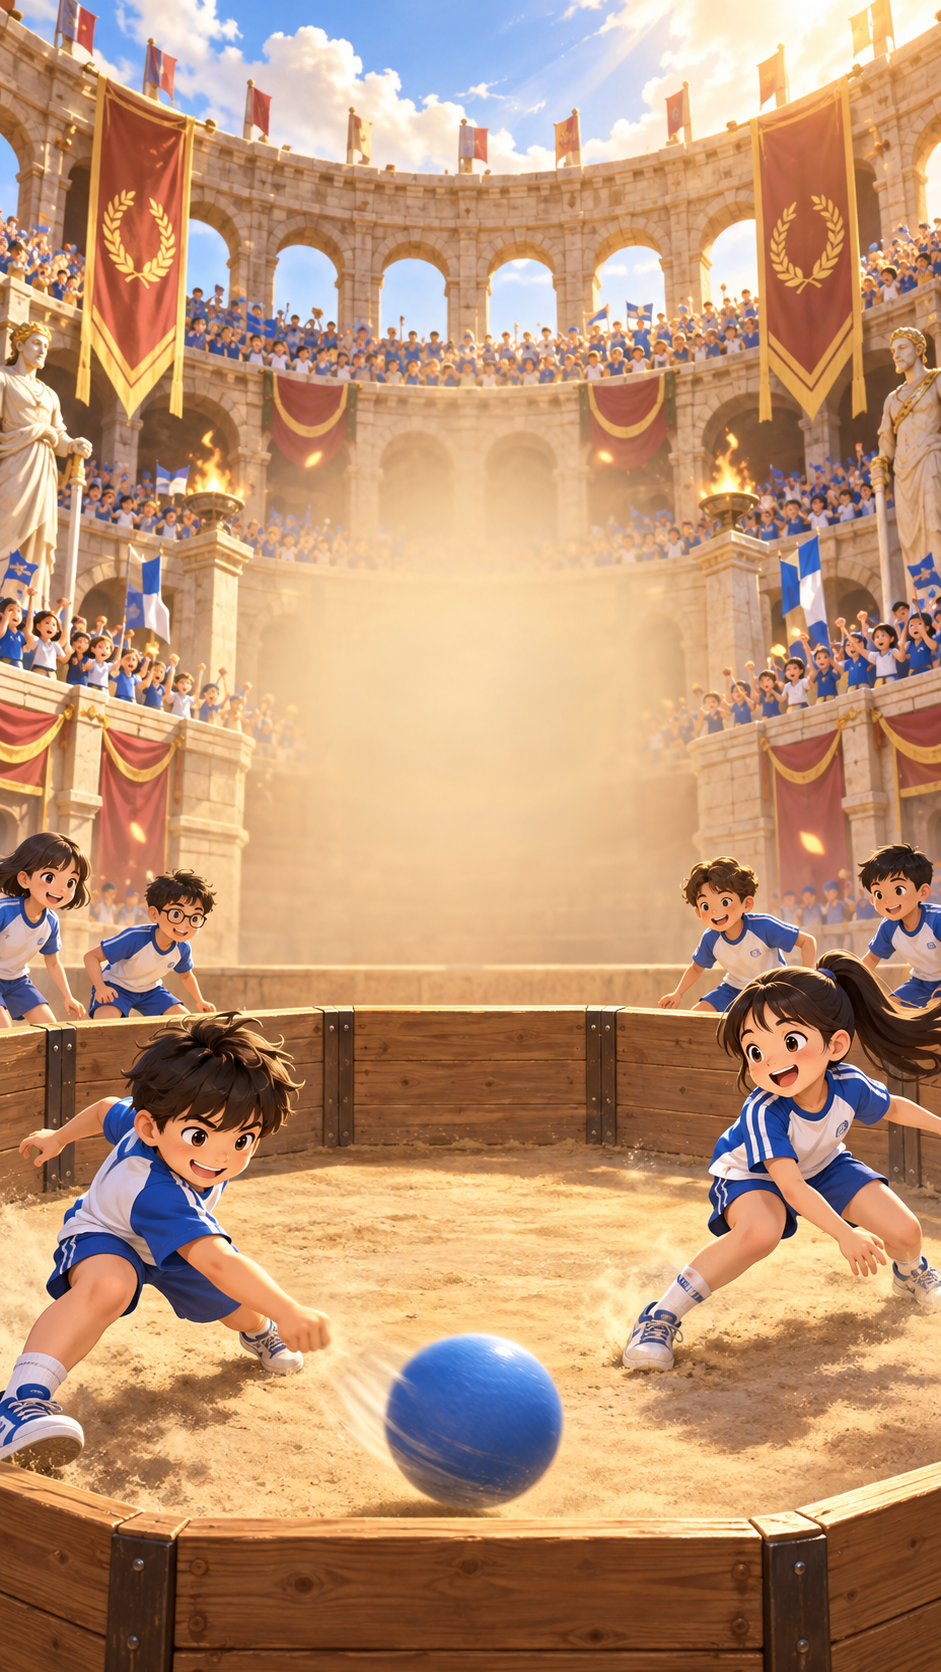
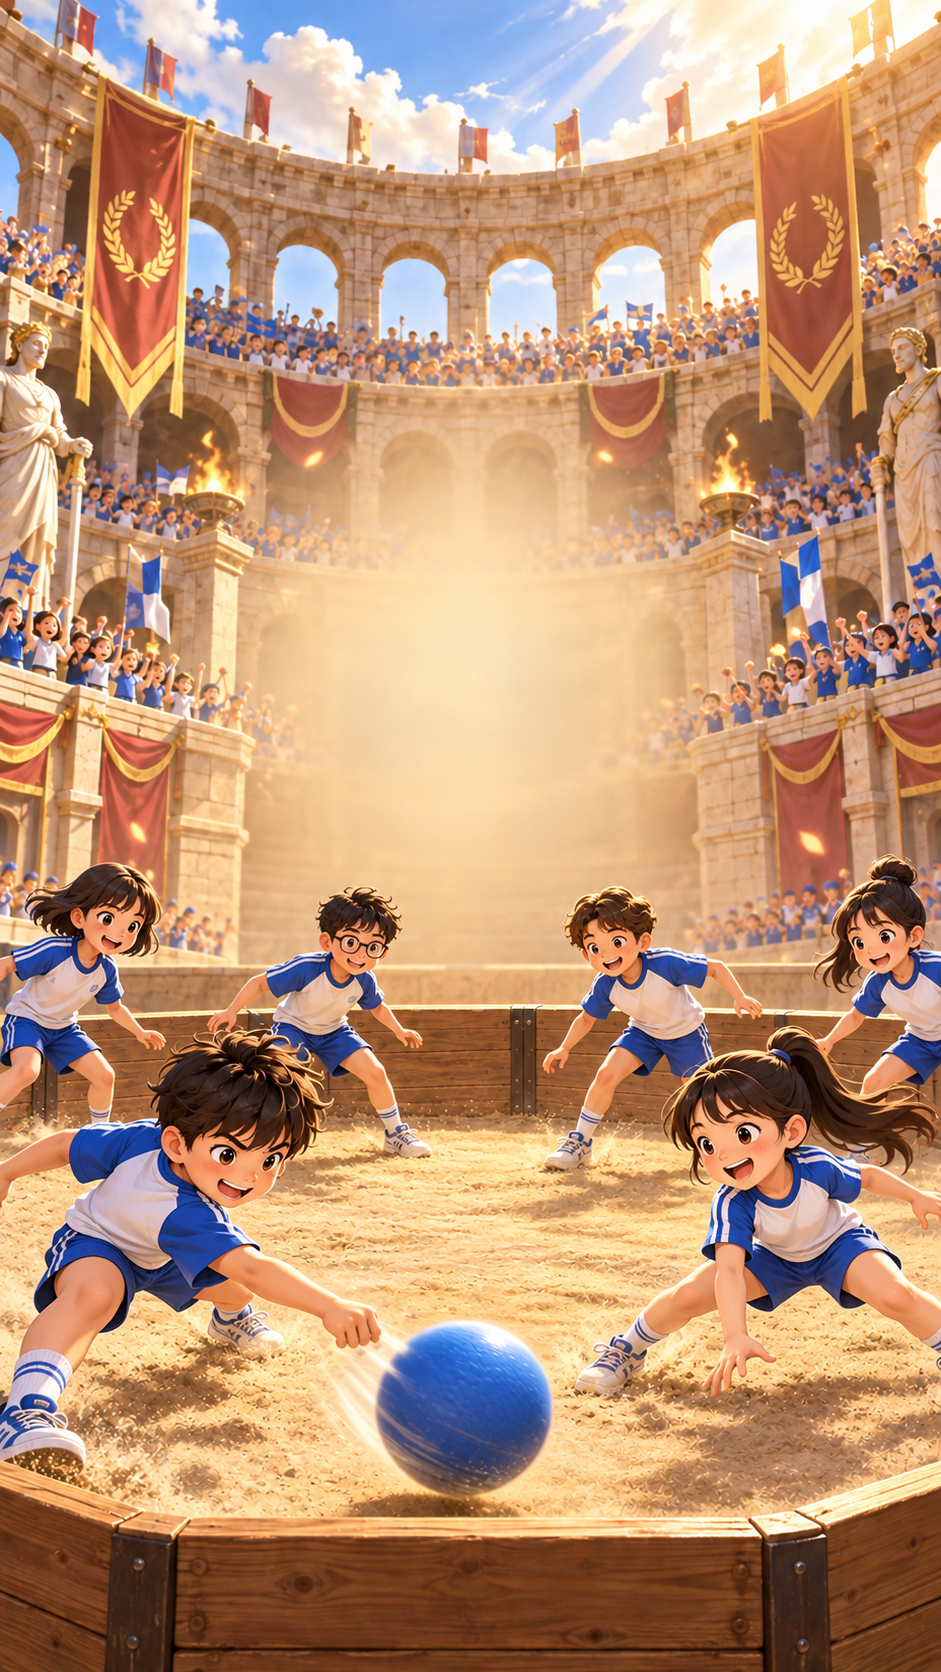
Add timer seeking and refresh arena backgrounds

diff --git a/app.js b/app.js
@@ -1357,6 +1357,17 @@ let timerAnimationFrame = null;
 let lastTimerNumber = '';
 const finalTimerWords = ['TIME UP!', 'ONE', 'TWO', 'THREE', 'FOUR', 'FIVE', 'SIX', 'SEVEN', 'EIGHT', 'NINE', 'TEN'];
 
+function getTimerSeekMax() {
+    const audioDuration = activeTimerAudio?.duration;
+    return Number.isFinite(audioDuration) && audioDuration > 0 ? audioDuration : activeTimerDuration + 3;
+}
+
+function formatTimerPosition(seconds) {
+    const safeSeconds = Math.max(0, Math.floor(Number(seconds) || 0));
+    const minutes = Math.floor(safeSeconds / 60);
+    return `${String(minutes).padStart(2, '0')}:${String(safeSeconds % 60).padStart(2, '0')}`;
+}
+
 function renderTimerScreen() {
     if (!activeTimerAudio) return;
     const elapsed = activeTimerAudio.currentTime;
@@ -1389,9 +1400,27 @@ function renderTimerScreen() {
         number.classList.add('timer-beat');
         lastTimerNumber = displayKey;
     }
-    document.getElementById('timer-progress-fill').style.width = `${state.remaining / activeTimerDuration * 100}%`;
+    const seek = document.getElementById('timer-seek-input');
+    const seekMax = getTimerSeekMax();
+    const seekValue = Math.min(elapsed, seekMax);
+    seek.max = String(seekMax);
+    seek.value = String(seekValue);
+    seek.style.setProperty('--timer-seek-progress', `${seekMax ? seekValue / seekMax * 100 : 0}%`);
+    seek.setAttribute('aria-valuetext', `${formatTimerPosition(seekValue)} / ${formatTimerPosition(seekMax)}`);
+    document.getElementById('timer-seek-current').textContent = formatTimerPosition(seekValue);
+    document.getElementById('timer-seek-total').textContent = formatTimerPosition(seekMax);
     if (!activeTimerAudio.ended) timerAnimationFrame = requestAnimationFrame(renderTimerScreen);
 }
+
+window.seekGagaTimer = function(value) {
+    if (!activeTimerAudio) return;
+    const requestedTime = Number(value);
+    if (!Number.isFinite(requestedTime)) return;
+    activeTimerAudio.currentTime = Math.min(Math.max(requestedTime, 0), getTimerSeekMax());
+    lastTimerNumber = '';
+    if (timerAnimationFrame) cancelAnimationFrame(timerAnimationFrame);
+    renderTimerScreen();
+};
 
 window.openGagaTimer = function(duration) {
     if (duration !== 60 && duration !== 100) return;
@@ -1403,6 +1432,10 @@ window.openGagaTimer = function(duration) {
     activeTimerAudio.preload = 'auto';
     activeTimerAudio.muted = window.isGlobalMuted;
     activeTimerAudio.onended = renderTimerScreen;
+    activeTimerAudio.onloadedmetadata = () => {
+        if (timerAnimationFrame) cancelAnimationFrame(timerAnimationFrame);
+        renderTimerScreen();
+    };
     lastTimerNumber = '';
     document.getElementById('timer-duration-label').textContent = `${duration}초 경기`;
     document.getElementById('timer-pause-button').textContent = '⏸ 일시정지';
@@ -1449,6 +1482,7 @@ window.closeGagaTimer = function() {
     if (activeTimerAudio) {
         activeTimerAudio.pause();
         activeTimerAudio.onended = null;
+        activeTimerAudio.onloadedmetadata = null;
         activeTimerAudio.currentTime = 0;
         activeTimerAudio = null;
     }

diff --git a/style.css b/style.css
@@ -833,8 +833,40 @@ body.app-header-visible #manage-modal {
     filter: drop-shadow(0 0 15px #41e56b) drop-shadow(0 0 28px rgba(65, 229, 107, .72));
 }
 .timer-word-label { min-height: 1.7em; font-size: clamp(1.3rem, 3vw, 2.2rem); letter-spacing: .12em; color: #ffe5a2; }
-.timer-progress-track { height: 11px; margin-top: 10px; overflow: hidden; border-radius: 99px; background: rgba(255,255,255,.2); }
-.timer-progress-fill { height: 100%; width: 100%; border-radius: inherit; background: linear-gradient(90deg, #f0ab36, #fff2b5); }
+.timer-seek-control { display: block; margin-top: 8px; }
+.timer-seek-input {
+    --timer-seek-progress: 0%;
+    display: block;
+    width: 100%;
+    height: 30px;
+    margin: 0;
+    cursor: pointer;
+    appearance: none;
+    -webkit-appearance: none;
+    background: transparent;
+    touch-action: none;
+}
+.timer-seek-input::-webkit-slider-runnable-track {
+    height: 12px;
+    border-radius: 99px;
+    background: linear-gradient(90deg, #f0ab36 0 var(--timer-seek-progress), rgba(255,255,255,.24) var(--timer-seek-progress) 100%);
+    box-shadow: inset 0 1px 3px rgba(0,0,0,.42);
+}
+.timer-seek-input::-moz-range-track { height: 12px; border-radius: 99px; background: rgba(255,255,255,.24); box-shadow: inset 0 1px 3px rgba(0,0,0,.42); }
+.timer-seek-input::-moz-range-progress { height: 12px; border-radius: 99px; background: #f0ab36; }
+.timer-seek-input::-webkit-slider-thumb {
+    width: 25px;
+    height: 25px;
+    margin-top: -6.5px;
+    border: 3px solid #fff7dc;
+    border-radius: 50%;
+    background: #f0ab36;
+    box-shadow: 0 2px 9px rgba(0,0,0,.55);
+    -webkit-appearance: none;
+}
+.timer-seek-input::-moz-range-thumb { width: 21px; height: 21px; border: 3px solid #fff7dc; border-radius: 50%; background: #f0ab36; box-shadow: 0 2px 9px rgba(0,0,0,.55); }
+.timer-seek-input:focus-visible { outline: 3px solid #fff2b5; outline-offset: 3px; border-radius: 99px; }
+.timer-seek-times { display: flex; justify-content: space-between; margin-top: -2px; color: #fff2c2; font: 700 .82rem system-ui, sans-serif; text-shadow: 0 2px 4px rgba(0,0,0,.75); }
 .timer-screen-controls { justify-content: center; flex-wrap: wrap; }
 .timer-screen-controls button {
     min-height: 44px;

diff --git a/index.html b/index.html
@@ -305,7 +305,10 @@ placeholder="엑셀에서 번호, 이름, 성별을 복사해 붙여넣으세요
             <p id="timer-phase-label" class="timer-phase-label">시작 준비</p>
             <div id="timer-main-number" class="timer-main-number timer-race-lights" aria-live="off"><span class="timer-race-light active">●</span><span class="timer-race-light">●</span><span class="timer-race-light">●</span><span class="timer-race-light">●</span></div>
             <p id="timer-word-label" class="timer-word-label">START LIGHTS</p>
-            <div class="timer-progress-track"><div id="timer-progress-fill" class="timer-progress-fill"></div></div>
+            <label class="timer-seek-control" for="timer-seek-input">
+                <input id="timer-seek-input" class="timer-seek-input" type="range" min="0" max="103" step="0.05" value="0" aria-label="타이머 재생 위치" title="클릭하거나 드래그해서 재생 위치를 이동하세요" oninput="window.seekGagaTimer(this.value)">
+                <span class="timer-seek-times" aria-hidden="true"><span id="timer-seek-current">00:00</span><span id="timer-seek-total">01:43</span></span>
+            </label>
         </div>
         <div class="timer-screen-controls">
             <button id="timer-pause-button" type="button" onclick="window.toggleGagaTimerPause()">⏸ 일시정지</button>
